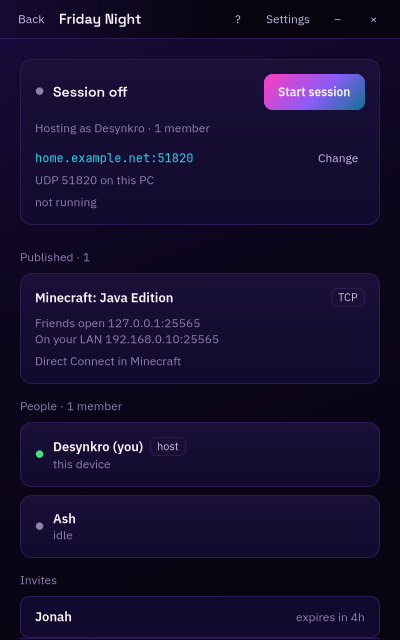
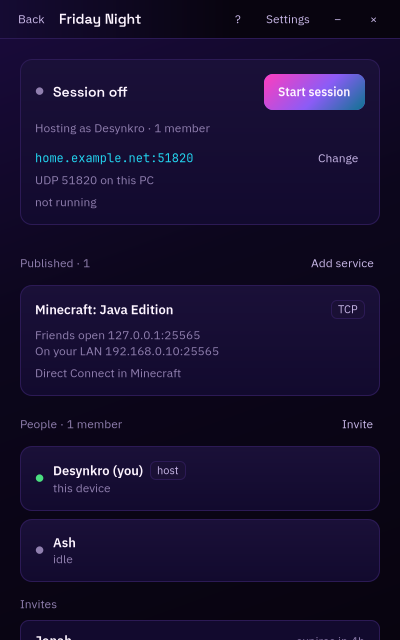
Restored the OS username default and added invite and service dialogs
The host field is prefilled from USER/USERNAME/LOGNAME again and falls back to User when cleared. Host screens now have Add service and Invite actions. Invites are created through the app layer, shown with a copy button and listed with expiry. Services support name, protocol, LAN target, friend ports and hint, with validation errors shown in the dialog.

Changed region(s): [[0.03, 0.5938, 0.96, 1.0], [0.06, 0.375, 0.96, 0.5938], [0.9, 0.5938, 0.96, 0.625]]

diff --git a/internal/gtkui/style.css b/internal/gtkui/style.css
@@ -337,3 +337,26 @@ label.warning {
   font-family: "IBM Plex Sans";
   font-size: 12px;
 }
+
+dropdown.field {
+  background-color: @ink;
+  border: 1px solid @hairline;
+  border-radius: 8px;
+  color: @pale;
+  min-height: 32px;
+}
+
+dropdown.field button {
+  background-color: @ink;
+  background-image: none;
+  border: 1px solid @hairline;
+  border-radius: 8px;
+  color: @pale;
+  min-height: 32px;
+  padding: 0 9px;
+}
+
+dropdown.field button:hover {
+  background-color: @raised;
+  border-color: @violet;
+}

diff --git a/internal/gtkui/dialogs.go b/internal/gtkui/dialogs.go
@@ -9,6 +9,7 @@ import (
 	"github.com/diamondburned/gotk4/pkg/gtk/v4"
 
 	apppkg "github.com/desynkro/lan-party/internal/app"
+	"github.com/desynkro/lan-party/internal/group"
 )
 
 func (u *probeUI) showCreateGroupDialog() {
@@ -19,6 +20,7 @@ func (u *probeUI) showCreateGroupDialog() {
 	content.Append(gapBox(10))
 	content.Append(textLabel("Your name", "form-label"))
 	hostEntry := entry("User")
+	hostEntry.SetText(apppkg.DefaultHostName())
 	content.Append(hostEntry)
 	content.Append(gapBox(10))
 	errLabel := textLabel("", "error")
@@ -159,6 +161,142 @@ func (u *probeUI) showApprovalDialog(approval apppkg.Approval) {
 	buttons.Append(allow)
 	buttons.SetHAlign(gtk.AlignEnd)
 	content.Append(buttons)
+	win.Present()
+}
+
+func (u *probeUI) showInviteDialog(g group.Group) {
+	win, content := u.dialog("Invite a friend")
+	content.Append(textLabel("Friend's name", "form-label"))
+	nameEntry := entry("Ash")
+	content.Append(nameEntry)
+	content.Append(gapBox(10))
+	errLabel := textLabel("", "error")
+	errLabel.SetVisible(false)
+	content.Append(errLabel)
+	content.Append(gapBox(10))
+
+	buttons := gtk.NewBox(gtk.OrientationHorizontal, 8)
+	cancel := gtk.NewButtonWithLabel("Cancel")
+	cancel.AddCSSClass("quiet")
+	cancel.ConnectClicked(func() { win.Close() })
+	create := gtk.NewButtonWithLabel("Create invite")
+	create.AddCSSClass("primary")
+	create.ConnectClicked(func() {
+		name := strings.TrimSpace(nameEntry.Text())
+		if name == "" {
+			errLabel.SetText("Give the invite a name.")
+			errLabel.SetVisible(true)
+			return
+		}
+		code, err := u.state.CreateInvite(g.ID, name)
+		if err != nil {
+			errLabel.SetText(err.Error())
+			errLabel.SetVisible(true)
+			return
+		}
+		win.Close()
+		u.showInviteCodeDialog(g, name, code)
+	})
+	buttons.Append(cancel)
+	buttons.Append(create)
+	buttons.SetHAlign(gtk.AlignEnd)
+	content.Append(buttons)
+	nameEntry.GrabFocus()
+	win.Present()
+}
+
+func (u *probeUI) showInviteCodeDialog(g group.Group, name, code string) {
+	win, content := u.dialog("Invite for " + name)
+	codeLabel := textLabel(code, "mono")
+	codeLabel.SetSizeRequest(320, -1)
+	content.Append(codeLabel)
+	content.Append(gapBox(10))
+	content.Append(textLabel("Send this code privately. It works once and expires after 24 hours.", "desc"))
+	content.Append(gapBox(12))
+
+	buttons := gtk.NewBox(gtk.OrientationHorizontal, 8)
+	copy := gtk.NewButtonWithLabel("Copy")
+	copy.AddCSSClass("secondary")
+	copy.ConnectClicked(func() {
+		u.win.Widget.Clipboard().SetText(code)
+		copy.SetLabel("Copied")
+	})
+	done := gtk.NewButtonWithLabel("Done")
+	done.AddCSSClass("primary")
+	done.ConnectClicked(func() {
+		win.Close()
+		u.showGroup(g.ID)
+	})
+	buttons.Append(copy)
+	buttons.Append(done)
+	buttons.SetHAlign(gtk.AlignEnd)
+	content.Append(buttons)
+	win.Present()
+}
+
+func (u *probeUI) showAddServiceDialog(g group.Group) {
+	win, content := u.dialog("Publish a service")
+	win.SetDefaultSize(360, 420)
+	content.Append(textLabel("Service name", "form-label"))
+	nameEntry := entry("Minecraft: Java Edition")
+	content.Append(nameEntry)
+	content.Append(gapBox(8))
+	content.Append(textLabel("Protocol", "form-label"))
+	protocol := gtk.NewDropDownFromStrings([]string{"TCP", "UDP", "TCP + UDP"})
+	protocol.AddCSSClass("field")
+	content.Append(protocol)
+	content.Append(gapBox(8))
+	content.Append(textLabel("LAN target", "form-label"))
+	targetEntry := entry("192.168.0.10:25565")
+	content.Append(targetEntry)
+	content.Append(gapBox(8))
+	content.Append(textLabel("Friend ports", "form-label"))
+	portsEntry := entry("25565")
+	content.Append(portsEntry)
+	content.Append(gapBox(8))
+	content.Append(textLabel("Hint", "form-label"))
+	hintEntry := entry("Direct Connect in Minecraft")
+	content.Append(hintEntry)
+	content.Append(gapBox(8))
+	errLabel := textLabel("", "error")
+	errLabel.SetVisible(false)
+	content.Append(errLabel)
+	content.Append(gapBox(10))
+
+	buttons := gtk.NewBox(gtk.OrientationHorizontal, 8)
+	cancel := gtk.NewButtonWithLabel("Cancel")
+	cancel.AddCSSClass("quiet")
+	cancel.ConnectClicked(func() { win.Close() })
+	add := gtk.NewButtonWithLabel("Publish")
+	add.AddCSSClass("primary")
+	add.ConnectClicked(func() {
+		ports, err := group.ParsePorts(portsEntry.Text())
+		if err != nil {
+			errLabel.SetText(err.Error())
+			errLabel.SetVisible(true)
+			return
+		}
+		s := group.Service{
+			ID:     group.NewID(),
+			Name:   strings.TrimSpace(nameEntry.Text()),
+			Proto:  protoValue(int(protocol.Selected())),
+			Target: strings.TrimSpace(targetEntry.Text()),
+			Ports:  ports,
+			Hint:   strings.TrimSpace(hintEntry.Text()),
+		}
+		if err := u.state.AddService(g.ID, s); err != nil {
+			errLabel.SetText(err.Error())
+			errLabel.SetVisible(true)
+			return
+		}
+		win.Close()
+		u.showGroup(g.ID)
+	})
+	buttons.Append(cancel)
+	buttons.Append(add)
+	buttons.SetHAlign(gtk.AlignEnd)
+	content.Append(buttons)
+	nameEntry.GrabFocus()
 	win.Present()
 }
 

diff --git a/internal/gtkui/group.go b/internal/gtkui/group.go
@@ -33,9 +33,9 @@ func (u *probeUI) buildGroupContent(g group.Group) *gtk.Box {
 
 	if g.IsHost() {
 		page.Append(u.hostSessionCard(g, showError))
-		page.Append(sectionTitle("Published", strconv.Itoa(len(g.Services))))
+		page.Append(sectionTitleAction("Published", strconv.Itoa(len(g.Services)), "Add service", func() { u.showAddServiceDialog(g) }))
 		page.Append(u.hostServices(g))
-		page.Append(sectionTitle("People", plural(len(g.Members), "member")))
+		page.Append(sectionTitleAction("People", plural(len(g.Members), "member"), "Invite", func() { u.showInviteDialog(g) }))
 		page.Append(u.hostPeople(g))
 		page.Append(sectionTitle("Invites", ""))
 		page.Append(u.hostInvites(g))
@@ -221,6 +221,15 @@ func (u *probeUI) hostInvites(g group.Group) *gtk.Box {
 		name.SetHExpand(true)
 		content.Append(name)
 		content.Append(lineLabel(expiresIn(inv.ExpiresAt), "row-meta"))
+		if code := u.state.InviteCode(inv.ID); code != "" {
+			copy := gtk.NewButtonWithLabel("Copy")
+			copy.AddCSSClass("quiet")
+			copy.ConnectClicked(func() {
+				u.win.Widget.Clipboard().SetText(code)
+				copy.SetLabel("Copied")
+			})
+			content.Append(copy)
+		}
 		row.SetChild(content)
 		box.Append(row)
 	}
@@ -410,6 +419,10 @@ func tagLabel(text string) *gtk.Label {
 }
 
 func sectionTitle(title, count string) *gtk.Box {
+	return sectionTitleAction(title, count, "", nil)
+}
+
+func sectionTitleAction(title, count, action string, onAction func()) *gtk.Box {
 	row := gtk.NewBox(gtk.OrientationHorizontal, 8)
 	row.SetMarginTop(14)
 	row.SetMarginBottom(8)
@@ -420,6 +433,12 @@ func sectionTitle(title, count string) *gtk.Box {
 	label := lineLabel(text, "section")
 	label.SetHExpand(true)
 	row.Append(label)
+	if action != "" && onAction != nil {
+		button := gtk.NewButtonWithLabel(action)
+		button.AddCSSClass("quiet")
+		button.ConnectClicked(onAction)
+		row.Append(button)
+	}
 	return row
 }
 
@@ -463,4 +482,15 @@ func lineLabel(text, class string) *gtk.Label {
 	label.SetHAlign(gtk.AlignStart)
 	label.SetEllipsize(pango.EllipsizeEnd)
 	return label
+}
+
+func protoValue(index int) string {
+	switch index {
+	case 0:
+		return "tcp"
+	case 1:
+		return "udp"
+	default:
+		return "both"
+	}
 }

diff --git a/internal/gtkui/probe.go b/internal/gtkui/probe.go
@@ -82,6 +82,16 @@ func RunProbe(argv []string) int {
 		case screen == "join":
 			ui.showHome()
 			ui.showJoinDialog()
+		case strings.HasPrefix(screen, "invite:"):
+			if g, ok := ui.state.Group(strings.TrimPrefix(screen, "invite:")); ok {
+				ui.showGroup(g.ID)
+				ui.showInviteDialog(g)
+			}
+		case strings.HasPrefix(screen, "service:"):
+			if g, ok := ui.state.Group(strings.TrimPrefix(screen, "service:")); ok {
+				ui.showGroup(g.ID)
+				ui.showAddServiceDialog(g)
+			}
 		case strings.HasPrefix(screen, "group:"):
 			ui.showGroup(strings.TrimPrefix(screen, "group:"))
 		default:
